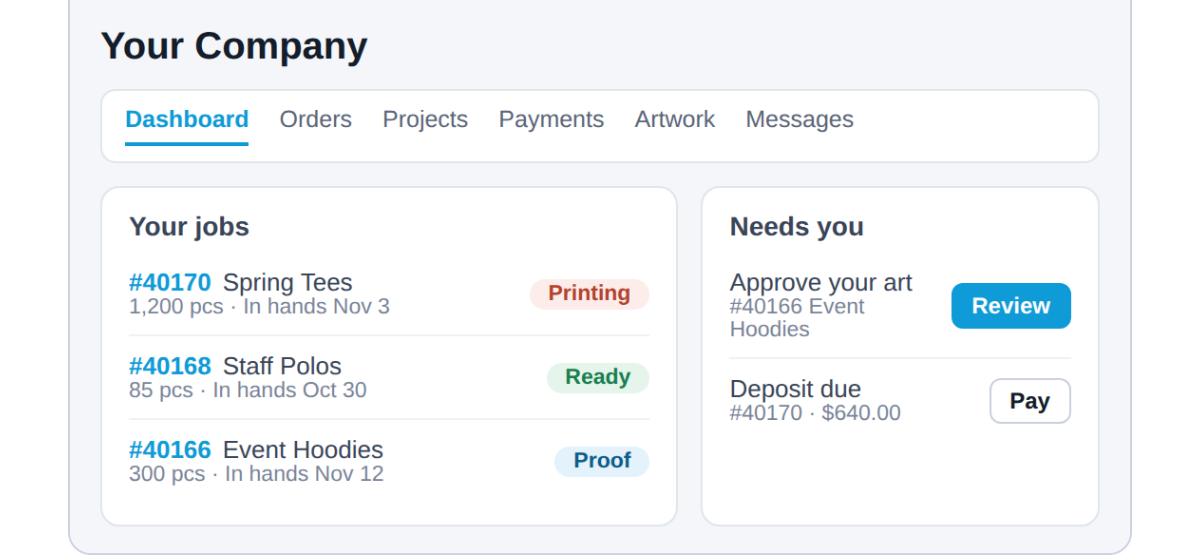
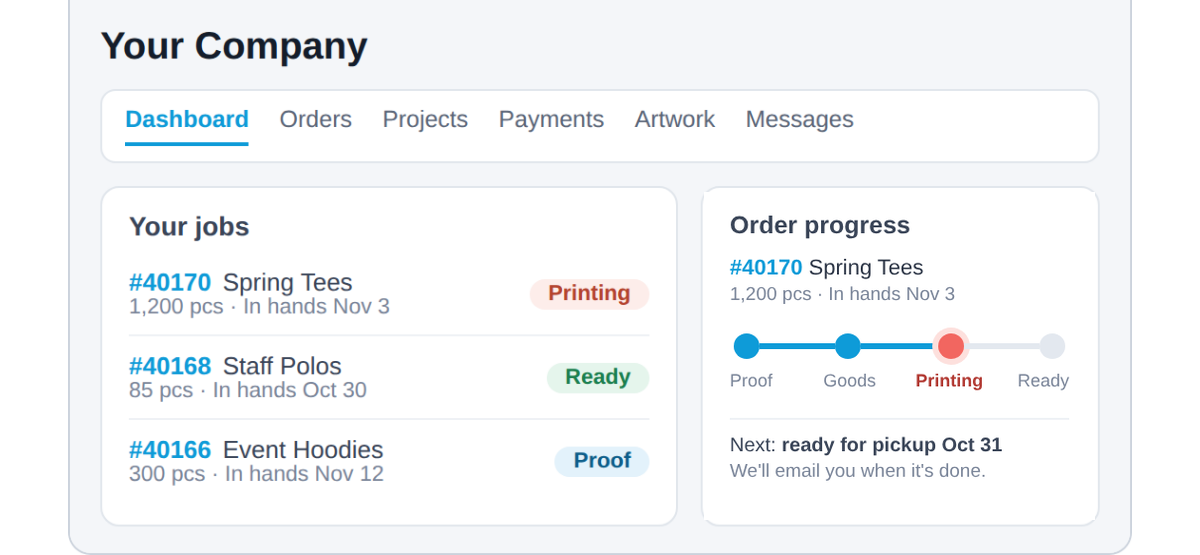
Launch email portal picture: Order progress (Proof, Goods, Printing, Ready, and what's next) in place of Needs you
Claude-Session: https://claude.ai/code/session_01USnzAy28BuCVyhgCQyyvnV

Changed region(s): [[0.5858, 0.4595, 0.8942, 0.8577], [0.5858, 0.3676, 0.7708, 0.4288]]

diff --git a/lib/version.ts b/lib/version.ts
@@ -3,4 +3,4 @@
  * change it goes up one… when I refresh I'll know if you've updated"). 1.1.001, 1.1.002, 1.1.003… Raised by one with
  * every change that goes live (see CLAUDE.md).
  */
-export const APP_VERSION = "1.1.685";
+export const APP_VERSION = "1.1.686";
